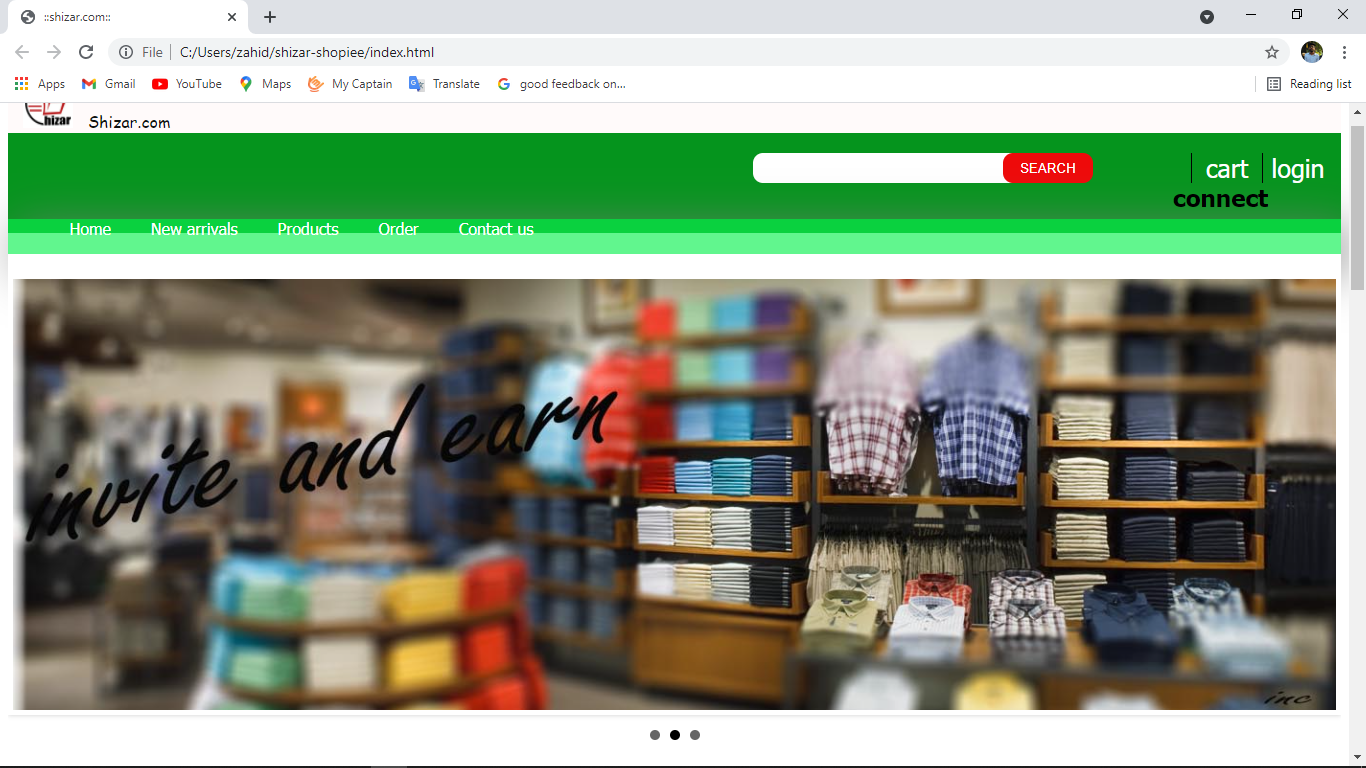
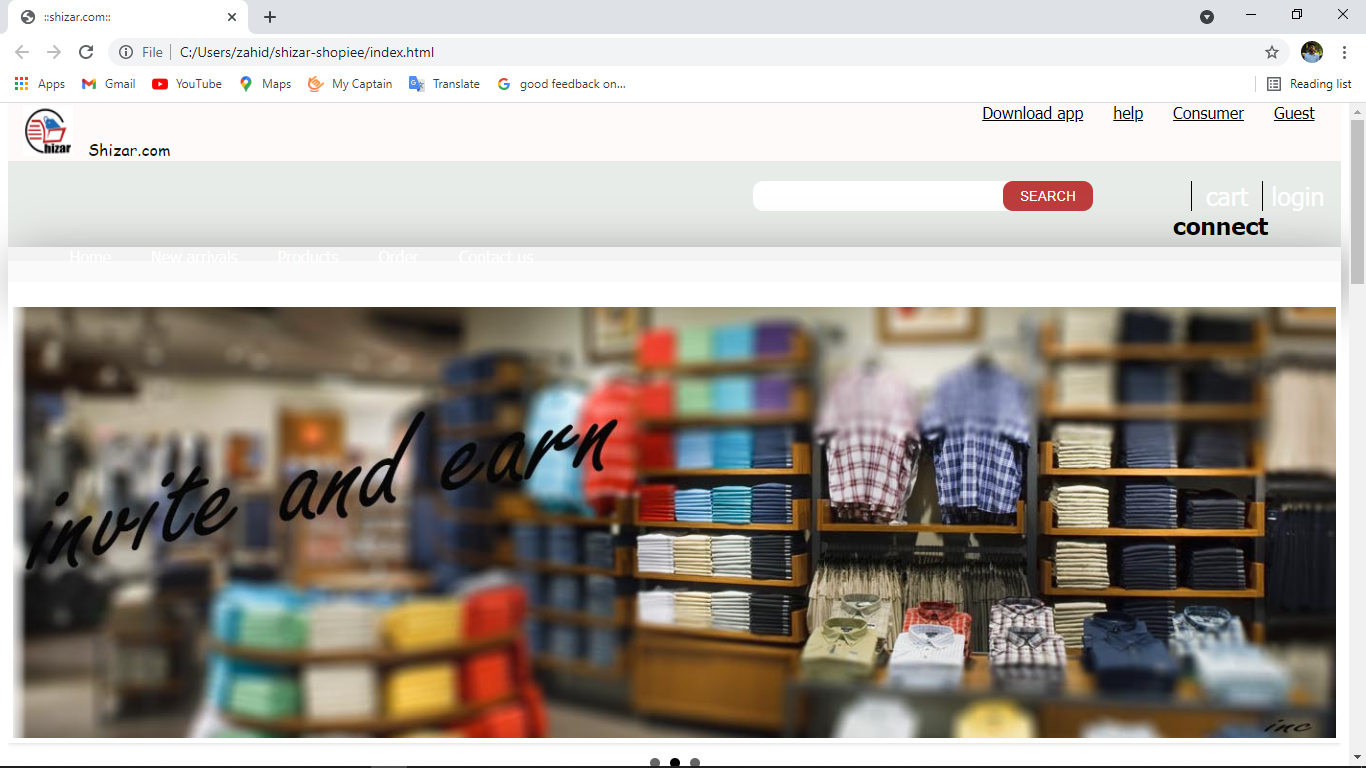
updated

diff --git a/index.html b/index.html
@@ -9,7 +9,7 @@
 
 	<link rel="stylesheet" type="text/css" href="default.css">
 	<link id="theme-style" rel="stylesheet" type="text/css" href="default.css">
-	
+
 </head>
 <body>
 
@@ -20,8 +20,8 @@
 			</div>
 			<div class="intro-wrapper">
 				<div class="nav-wrapper">
+
 			
-					<!-- Link around dots-wrapper added after tutorial video -->
 					<div href="index.html">
 						<div id="theme-options-wrapper">
 						<div data-mode="light"  id="light-mode" class="theme-dot"></div>
@@ -143,6 +143,16 @@
 						</div>
 					</div>
 				</div>
+				<div>
+					<div class="post">
+						<img class="thumbnail" src="images/ds.png">
+						<div class="post-preview">
+							<h6 class="post-title">NFL Football Stats (defense) Explorer</h6>
+							<p class="post-intro">This app performs simple webscraping of NFL Football player stats data</p>
+							<a href="ds.html">Read More</a>
+						</div>
+					</div>
+				</div>
 
 				<div>
 					<div class="post">
@@ -161,50 +171,43 @@
 
 
 	<section class="s2">
-		<div class="main-container">
-<h3>Find me on</h3>
-			<div class="about-wrapper">
-                   <div id="footer">
-                   <div id="skills">
-                       <div class="about-me">
-                           <ul>
+<div class="main-container">
+<h3>Find me on</h3><br>
+<div class="dots-wrapper">
+
                                <!--===social==-->
                             <div class="catbox">
 							<style>border-width: 5px;</style>
-                           <li><a href="https://www.behance.net/mohammedzahidk"><img src="images\be.png"  width="50" height="50">@mohdzahid</a></li>
+                           <a href="https://www.behance.net/mohammedzahidk"><img src="images\be.png"  width="50" height="50"></a>
                                </div>
                                <!--==social==-->
                                 <div class="catbox">
-                           <li><a href="https://www.facebook.com/people/Z%C3%A0h%C3%ADd-Mohd/100009988594520"><img src="images\fb.png" width="50" height="50">@mohdzahid</a></li>
+                           <a href="https://www.facebook.com/people/Z%C3%A0h%C3%ADd-Mohd/100009988594520"><img src="images\fb.png" width="50" height="50"></a>
                              </div>
 							 <!--==social==-->
                                 <div class="catbox">
-                           <li><a href="https://twitter.com/zahidsayu?s=08"><img src="images\twi.png" width="50" height="50">@zahidsayu</a></li>
+                           <a href="https://twitter.com/zahidsayu?s=08"><img src="images\twi.png" width="50" height="50"></a>
                              </div>
                                <!---social==-->
                                 <div class="catbox">
-                           <li><a href="https://www.instagram.com/_zahi._.d__?r=nametag"><img src="images\insta.png" width="50" height="50">@_zahi._.d_</a></li>
+                           <a href="https://www.instagram.com/_zahi._.d__?r=nametag"><img src="images\insta.png" width="50" height="50"></a>
                                </div>
 							   <!---social==-->
                                 <div class="catbox">
-                           <li><a href="https://github.com/mohdzahidK"><img src="images\git.png" width="50" height="50">@MohdZaihdK</a></li>
+                           <a href="https://github.com/mohdzahidK"><img src="images\git.png" width="50" height="50"></a>
                                </div>
 
                          <!--==social==-->
                                 <div class="catbox">
-                           <li><a href="https://www.linkedin.com/in/mohammed-zahid-k-13873a1b5"><img src="images\in.png" width="50" height="50">@MohdzahidK</a></li>
+                           <a href="https://www.linkedin.com/in/mohammed-zahid-k-13873a1b5"><img src="images\in.png" width="50" height="50"></a>
 
                                </div>
 							       <div class="catbox">
-                           <li><a href="mailto:za33hi@gmail.com"><img src="images\mail.png" width="50" height="50">@za33hi</a></li>
+                           <a href="mailto:za33hi@gmail.com"><img src="images\mail.png" width="50" height="50"></a>
 
                                </div>
-                           </ul>
-						</div>
-                       </div>
-					   </div>
-
-<div >
+															 </div>
+															 </div>
 		<center><script src="https://www.gstatic.com/dialogflow-console/fast/messenger/bootstrap.js?v=1"></script>
 <df-messenger
   intent="WELCOME"
@@ -212,7 +215,7 @@
   agent-id="c2776054-786e-4767-8044-d866d3603764"
   language-code="en"
 ></df-messenger>
-      
+
 				</center>
 
                    </div>

diff --git a/ds.html b/ds.html
@@ -1,7 +1,7 @@
 <!DOCTYPE html>
 <html>
 <head>
-	<title>Post Name</title>
+	<title>project</title>
 
 
 	<meta name="viewport" content="width=device-width, initial-scale=1, maximum-scale=1, minimum-scale=1" />
@@ -27,7 +27,11 @@
 </head>
 <body>
 	<div class="nav-wrapper">
-<ul id="navigation">
+
+		
+		
+
+		<ul id="navigation">
 			<li><a href="index.html">Back</a></li>
 
 		</ul>
@@ -37,24 +41,17 @@
 		<br>
 
 		<div class="img-container">
-			<img src="images/vicletedctn.jpg">
+			<img src="images/ds.png">
 		</div>
-		
-		<h3>Vehicle detection system</h3>
 
-		<p>This was a project I started back in august 2020 when I  learned cv,ml.
+		<h3>NFL Football Stats (defense) Explorer</h3>
+
+		<p>
 		<br>
 		<br>
-		Vehicle detection plays an important role in safe driving assistance technology. 
-        Smart Traffic light system
-        For every frame:
-
-        Detect potential regions of interest
-        Filter detected regions based on vertical & horizontal similarity   
-        If its a new region, add to the collection
-        Clear collection every 30 frames
-
-
+		This app performs simple webscraping of NFL Football player stats data (focusing on defenseS)!
+Python libraries: base64, pandas, streamlit, numpy, matplotlib, seaborn
+Data source: [pro-football-reference.com](https://www.pro-football-reference.com/)
 		<br>
 		<br>
 		.</p>
@@ -62,12 +59,17 @@
 		<h5>Technologies:</h5>
 		<ul>
 			<li>- Python</li>
-			<li>- Cv2 </li>
-			<li>- Imutils </li>
-		
+			<li>- streamlit</li>
+			<li>- pandas</li>
+			<li>- numpy</li>
+			<li>- seaborn</li>
+			<li>-matplotlib</li>
 		</ul>
 
+        <div class="catbox">
+        <a href="https://github.com/mohdzahidK/football-data-defense-.git">Github link</a>
+                               </div>
 	</div>
-
+</div>
 </body>
 </html>

diff --git a/default.css b/default.css
@@ -29,12 +29,12 @@ body *{
 
 h1, h2, h3, h4, h5, h6, strong{
 	color: var(--mainText);
-	font-family: 'Courier new', sans-serif;
+	font-family: 'Russo One', sans-serif;
 	font-weight: 500;
 }
 h1, h2, h3, h4, h5, h6, strong{
 	color: var(--mainText);
-	font-family: 'Courier new', sans-serif;
+	font-family: 'Roboto Mono', sans-serif;
 	font-weight: 500;
 }
 
@@ -138,7 +138,7 @@ h6 { font-size: 16px;}
 }
 .dots-wrapper{
 	display: flex;
-	padding: 10px;
+	padding: 20px;
 }
 
 #navigation{
@@ -217,7 +217,7 @@ h6 { font-size: 16px;}
 	font-style: italic;
 	text-align: center;
 }
-	
+
 
 
 
@@ -351,4 +351,14 @@ h6 { font-size: 16px;}
 	 .catbox:hover img{
     transform: scale(1.3);
     transition:all .5s ease;
+
+.footer{
+	display: flex;
+	justify-content: center;
+	width:25px;
+	 height: 25px;
+	 overflow: hidden;
+	 margin:0 18 30 0;
+	 position: relative;
+
 }

diff --git a/ecom.html b/ecom.html
@@ -1,7 +1,7 @@
 <!DOCTYPE html>
 <html>
 <head>
-	<title>Post Name</title>
+	<title>project</title>
 
 
 	<meta name="viewport" content="width=device-width, initial-scale=1, maximum-scale=1, minimum-scale=1" />
@@ -28,17 +28,11 @@
 <body>
 	<div class="nav-wrapper">
 
-		<!-- Link around dots-wrapper added after tutorial video -->
-		<a href="index.html">
-			<div class="dots-wrapper">
-				<div id="dot-1" class="browser-dot"></div>
-				<div id="dot-2" class="browser-dot"></div>
-				<div id="dot-3" class="browser-dot"></div>
-			</div>
-		</a>
+		
+		
 
 		<ul id="navigation">
-			<li><a href="index.html#contact">Contact</a></li>
+			<li><a href="index.html">Back</a></li>
 
 		</ul>
 	</div>
@@ -47,7 +41,7 @@
 		<br>
 
 		<div class="img-container">
-			<img src="images/ecom.jpg">
+			<img src="images/ecom.png">
 		</div>
 
 		<h3>shizar-shopiee</h3>

diff --git a/lifi.html b/lifi.html
@@ -28,17 +28,8 @@
 <body>
 	<div class="nav-wrapper">
 
-		<!-- Link around dots-wrapper added after tutorial video -->
-		<a href="index.html">
-			<div class="dots-wrapper">
-				<div id="dot-1" class="browser-dot"></div>
-				<div id="dot-2" class="browser-dot"></div>
-				<div id="dot-3" class="browser-dot"></div>
-			</div>
-		</a>
-
 		<ul id="navigation">
-			<li><a href="index.html#contact">Contact</a></li>
+			<li><a href="index.html">Back</a></li>
 
 		</ul>
 	</div>
